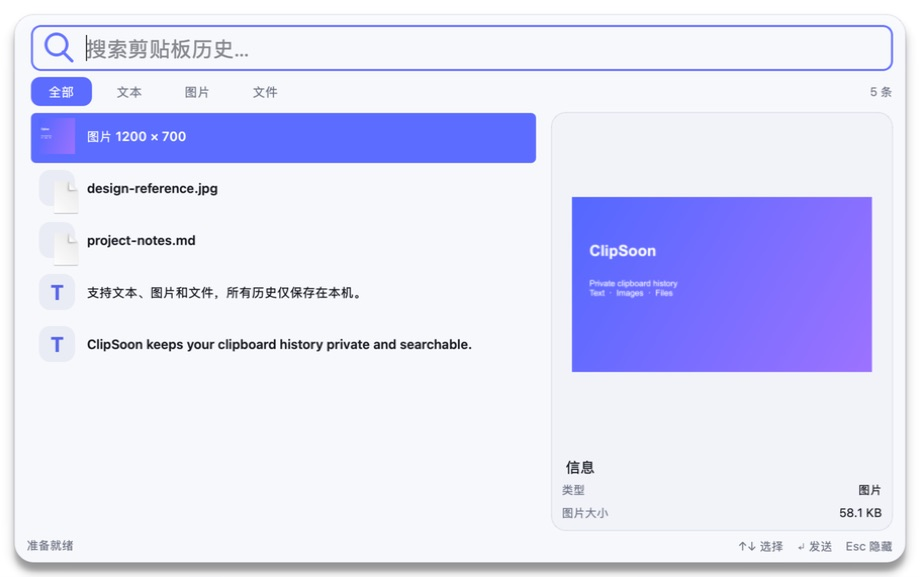
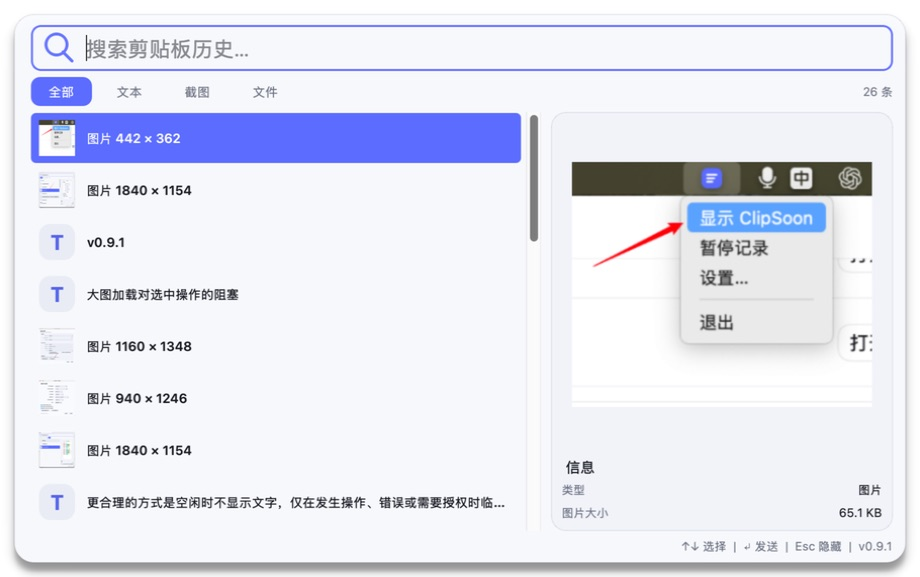
Prepare v0.9.1 automated release

diff --git a/tests/test_release.py b/tests/test_release.py
@@ -21,8 +21,9 @@ def test_tag_release_workflow_builds_requested_platforms() -> None:
     assert 'tags:\n      - "v*"' in workflow
     assert "runs-on: windows-latest" in workflow
     assert "architecture: x64" in workflow
-    assert "runs-on: macos-14" in workflow
+    assert "runs-on: macos-15" in workflow
     assert "architecture: arm64" in workflow
+    assert 'MACOSX_DEPLOYMENT_TARGET: "13.0"' in workflow
     assert "ClipSoon-${{ github.ref_name }}-windows-x64.zip" in workflow
     assert "ClipSoon-${{ github.ref_name }}-macOS-arm64.zip" in workflow
     assert "contents: write" in workflow